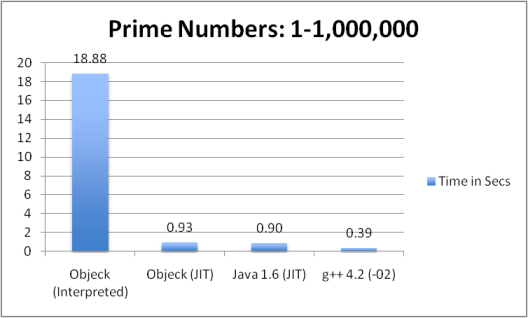
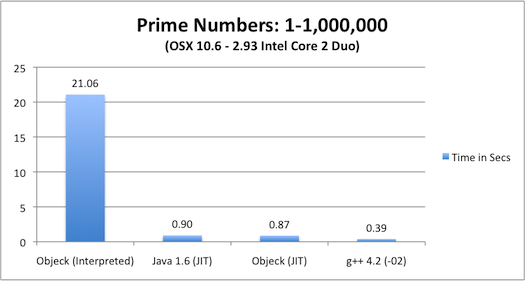
updated timing after running benchmarks again against other languages

diff --git a/objeck-lang/src/vm/jit/ia32/jit_intel_lp32.cpp b/objeck-lang/src/vm/jit/ia32/jit_intel_lp32.cpp
@@ -1871,11 +1871,6 @@ bool JitCompilerIA32::cond_jmp(InstructionType type) {
     // jump - false
     //
     else {
-      
-
-
-
-
       // TODO reverse logic...
       switch(type) {
       case LES_INT:	
@@ -1920,22 +1915,16 @@ bool JitCompilerIA32::cond_jmp(InstructionType type) {
         AddMachineCode(0x8C);
         break;
       }  
-
-
-
-
-
-    }
-
+    }    
     // store update index
     jump_table.insert(pair<int32_t, StackInstr*>(code_index, next_instr));
     // temp offset
     AddImm(0);
     skip_jump = true;
-
+    
     return true;
   }
-
+  
   return false;
 }
 
@@ -2020,7 +2009,9 @@ void JitCompilerIA32::math_reg_reg(Register src, Register dest, InstructionType 
   case LES_EQL_INT:
   case GTR_EQL_INT:
     cmp_reg_reg(src, dest);
-    cmov_reg(dest, type);
+    if(!cond_jmp(type)) {
+      cmov_reg(dest, type);
+    }
     break;
   }
 }
@@ -2057,9 +2048,10 @@ void JitCompilerIA32::math_mem_reg(int32_t offset, Register reg, InstructionType
     
   case LES_INT:
   case LES_EQL_INT:
-    // cmp_mem_reg(offset, EBP, reg, true);
     cmp_mem_reg(offset, EBP, reg);
-    cmov_reg(reg, type);
+    if(!cond_jmp(type)) {
+      cmov_reg(reg, type);
+    }
     break;
 
   case GTR_INT:
@@ -2067,7 +2059,9 @@ void JitCompilerIA32::math_mem_reg(int32_t offset, Register reg, InstructionType
   case NEQL_INT:  
   case GTR_EQL_INT:
     cmp_mem_reg(offset, EBP, reg);
-    cmov_reg(reg, type);
+    if(!cond_jmp(type)) {
+      cmov_reg(reg, type);
+    }
     break;
   }
 }
